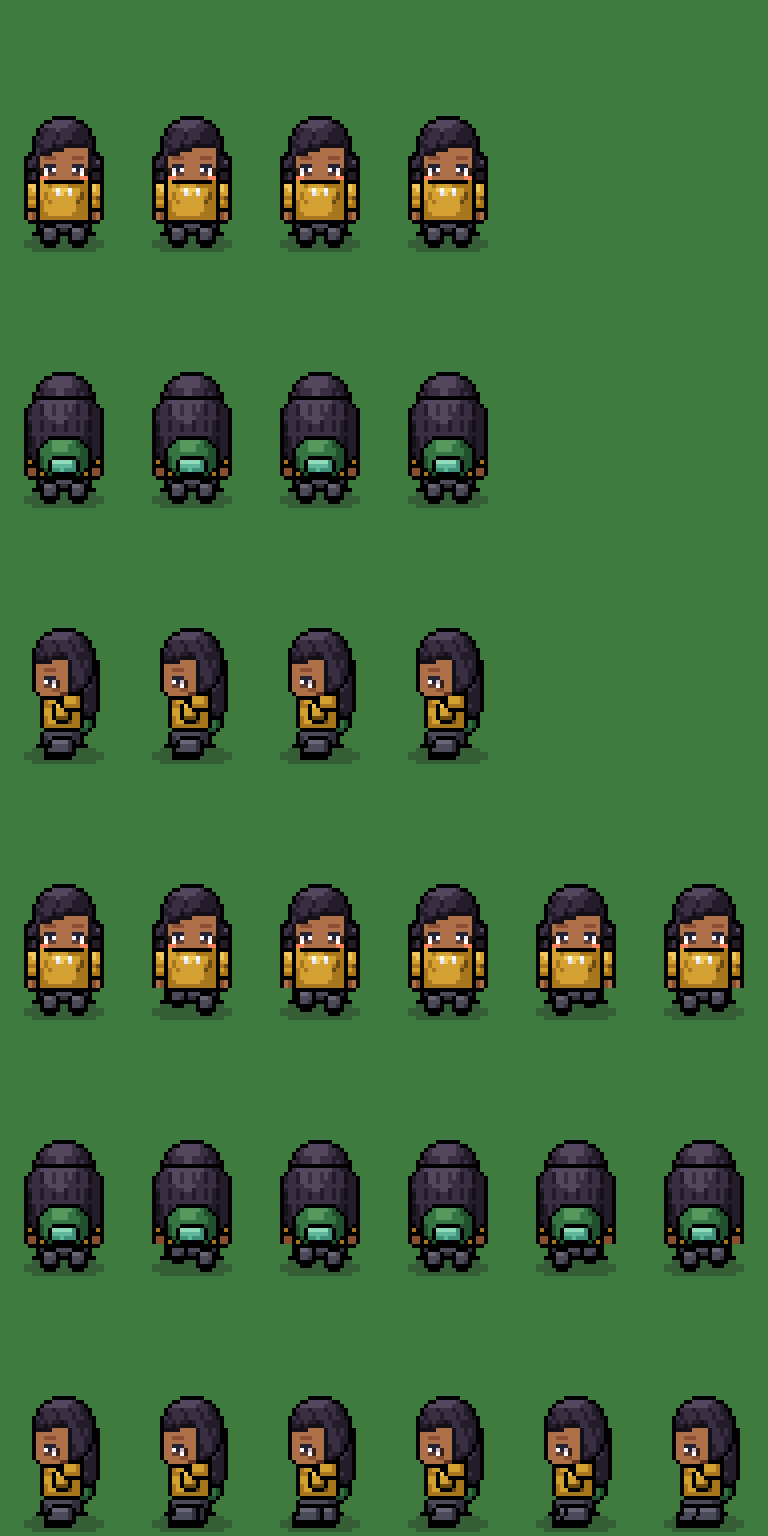
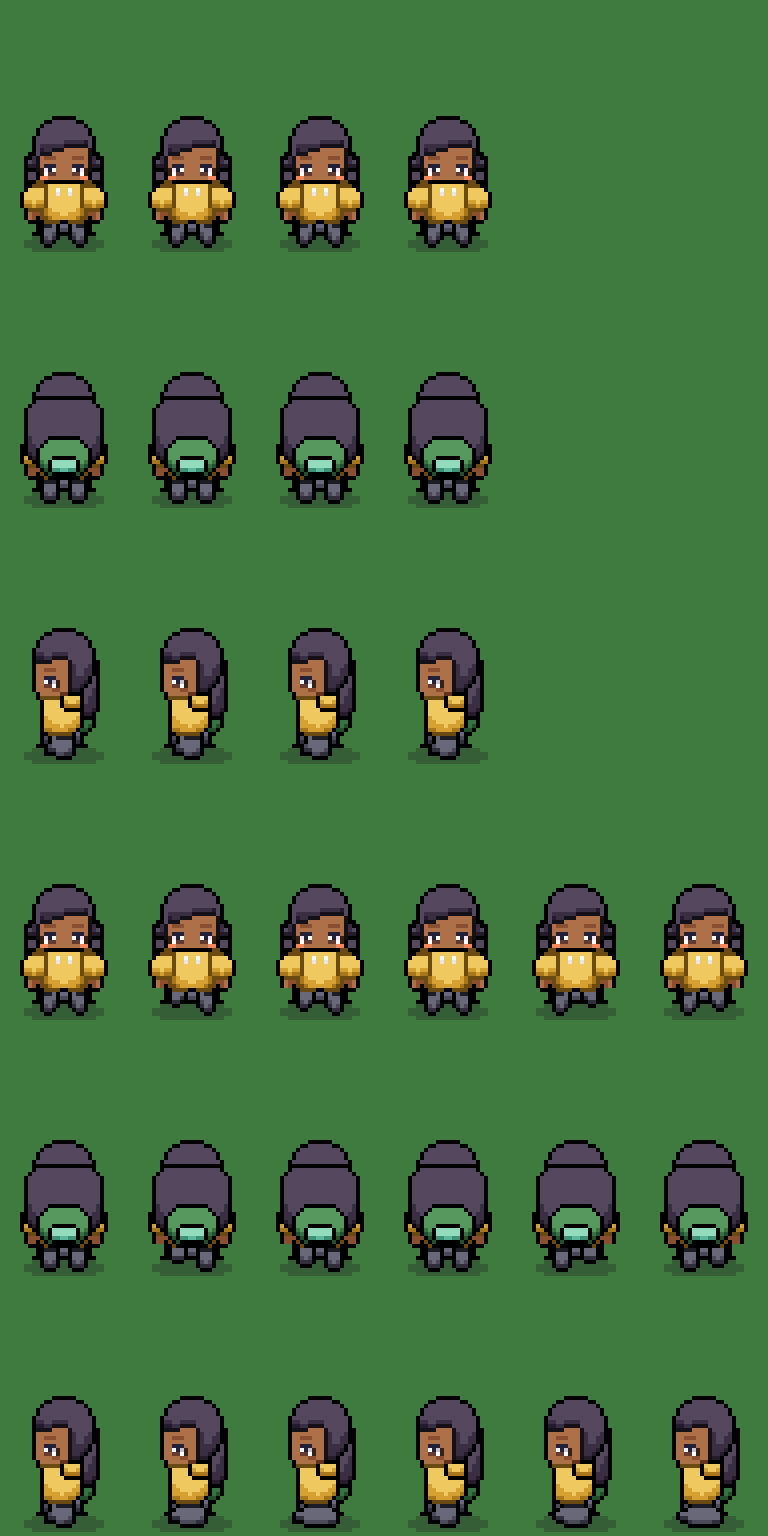
Characters: reference cel shading and body-contour clothing
- shading model measured from the reference body: flat lit shade, curved
  terminator (sides darken first, center last), darkest only in bottom
  corners, legs one shade down; replaces the gradient/highlight model
- clothing cut from the animated body silhouette (rounded contour like the
  body); sleeves are separate outlined shapes like the reference arms
- shoes follow each leg's lowest pixels (work with lifted/striding legs)
- removed hair strands/creases noise; kept head cast shadow + arm separation
- builder swatches show lit/shadow shades

Claude-Session: https://claude.ai/code/session_01AuTfW4RY5hqwpF1mFtvoZZ

diff --git a/scripts/gen-placeholders.ts b/scripts/gen-placeholders.ts
@@ -46,10 +46,16 @@ class Frame {
     return this.p.dir;
   }
   /** A shaded region with the black outline used by all character art. */
-  reg(ch: Ch | Ramp4, inside?: (x: number, y: number) => boolean): Region {
+  reg(ch: Ch | Ramp4, inside?: (x: number, y: number) => boolean, dim = 0): Region {
     const r = new Region(FRAME_W, FRAME_H, typeof ch === "string" ? KEY_RAMPS[ch] : ch);
-    this.ops.push(() => r.paint(this.c, 0, 0, { outlineColor: BLACK, inside, volume: true }));
+    this.ops.push(() => r.paint(this.c, 0, 0, { outlineColor: BLACK, inside, volume: true, dim }));
     return r;
+  }
+  /** Region for clothing: soft edge where it meets the body/head, black on the outer silhouette. */
+  bodyReg(ch: Ch, dim = 0): Region {
+    const m = bodyMask(this.p);
+    const hm = headMask(this.p);
+    return this.reg(ch, (x, y) => x >= 0 && y >= 0 && x < FRAME_W && y < FRAME_H && (m[y * FRAME_W + x] === 1 || hm[y * FRAME_W + x] === 1), dim);
   }
   /** Region for hair/headwear: black outline only on the head silhouette, soft edge where it meets skin. */
   headReg(ch: Ch): Region {
@@ -57,7 +63,7 @@ class Frame {
     return this.reg(ch, (x, y) => x >= 0 && y >= 0 && x < FRAME_W && y < FRAME_H && m[y * FRAME_W + x] === 1);
   }
   /** Shift a painted key-ramp pixel one shade darker (d=-1) or lighter (d=+1). Outline/fixed colors untouched. */
-  shift(x: number, y: number, d: -1 | 1) {
+  shift(x: number, y: number, d: number) {
     this.ops.push(() => {
       const h = hexAt(this.c, x, y);
       if (!h) return;
@@ -72,7 +78,7 @@ class Frame {
     });
   }
   /** Apply `shift` to every pixel of a region matching a predicate (call AFTER the region's shapes are set). */
-  detail(r: Region, d: -1 | 1, when: (x: number, y: number) => boolean) {
+  detail(r: Region, d: number, when: (x: number, y: number) => boolean) {
     for (let y = 0; y < FRAME_H; y++) for (let x = 0; x < FRAME_W; x++) if (r.has(x, y) && when(x, y)) this.shift(x, y, d);
   }
   dot(x: number, y: number, hex: string, alpha = 255) {
@@ -172,6 +178,33 @@ function headMask(p: Pose): Uint8Array {
   return m;
 }
 
+/** Body silhouette (torso, arms, legs — animated) for a pose. */
+const bodyMaskCache = new Map<string, Uint8Array>();
+function bodyMask(p: Pose): Uint8Array {
+  const key = `${p.dir}:${p.m.bodyDy}:${p.m.liftL}:${p.m.liftR}:${p.m.stride}`;
+  let m = bodyMaskCache.get(key);
+  if (!m) {
+    const c = new Canvas(FRAME_W, FRAME_H);
+    animate(BASE[p.dir].body, p, c);
+    m = new Uint8Array(FRAME_W * FRAME_H);
+    for (let i = 0; i < m.length; i++) m[i] = c.data[i * 4 + 3] ? 1 : 0;
+    bodyMaskCache.set(key, m);
+  }
+  return m;
+}
+
+/** Fill a region with (body mask ∩ predicate) — clothing follows the body's real contour. */
+function fromBody(r: Region, p: Pose, keep: (x: number, y: number) => boolean, growPx = 0): Region {
+  const m = bodyMask(p);
+  for (let y = 0; y < FRAME_H; y++)
+    for (let x = 0; x < FRAME_W; x++) {
+      if (!m[y * FRAME_W + x] || !keep(x, y)) continue;
+      for (let oy = -growPx; oy <= growPx; oy++)
+        for (let ox = -growPx; ox <= growPx; ox++) if (Math.abs(ox) + Math.abs(oy) <= growPx && oy >= 0) r.px(x + ox, y + oy);
+    }
+  return r;
+}
+
 /** Fill a region with (head mask ∩ predicate), grown by `grow` px for volume. */
 function fromHead(r: Region, p: Pose, keep: (x: number, y: number) => boolean, growPx = 0): Region {
   const m = headMask(p);
@@ -205,7 +238,6 @@ const drawers: Record<string, Drawer> = {
     if (f.dir === "down") r.round(h.x, h.y + 8, h.w, 16, 2);
     else if (f.dir === "up") r.round(h.x, h.y + 6, h.w, 18, 3);
     else r.round(h.x + 8, h.y + 6, 9, 17, 2);
-    f.detail(r, -1, (x, y) => r.has(x - 1, y) && r.has(x + 1, y) && (x - h.x) % 3 === 1 && y % 4 !== 0);
   },
   "hair/hair_bun_01.png": (f) => {
     const h = f.p.head;
@@ -350,88 +382,88 @@ function hairCap(f: Frame, sideLen: number) {
     fromHead(r, p, (x, y) => y <= h.y + 7 || (x >= h.x + 9 && y <= h.y + 6 + Math.max(6, sideLen)));
     r.rect(h.x + 1, h.y + 8, 4, 1); // fringe tip
   }
-  hairDetail(f, r);
 }
 
-function sleeve(f: Frame, arm: R, len: number) {
-  const h = Math.min(len, arm.h - 2);
-  const r = f.reg("primary");
-  rr(r, { x: arm.x, y: arm.y, w: arm.w, h }, 1);
-  if (h >= 6) f.detail(r, -1, (x, y) => y === arm.y + 4 && r.has(x - 1, y) && r.has(x + 1, y)); // elbow crease
-}
+// Clothing is cut from the animated body silhouette, so it has the same rounded contour as the body.
+// Rows/cols below are measured from the reference (front/back: torso cols 11–20, arms outside;
+// shoulders row 45, hands rows 52–54, legs 55–61; side: torso rows 46–56, legs 57–61).
 
-/** Folds on a torso region: shadow under the head, armpit creases, hem. */
-function torsoDetail(f: Frame, body: Region) {
-  const t = f.p.torso;
-  const inner = (x: number, y: number) => body.has(x - 1, y) && body.has(x + 1, y) && body.has(x, y - 1);
-  if (f.dir === "left") {
-    f.detail(body, -1, (x, y) => inner(x, y) && y <= t.y + 2 && x <= t.x + 5); // under the chin
-    f.detail(body, -1, (x, y) => inner(x, y) && y >= t.y + 4 && y <= t.y + 6 && x === t.x + 6);
-    return;
-  }
-  const cx = t.x + t.w / 2;
-  // cast shadow of the head on the chest/back
-  f.detail(body, -1, (x, y) => inner(x, y) && y <= t.y + 2 && Math.abs(x + 0.5 - cx) <= 4);
-  // armpit creases
-  f.detail(body, -1, (x, y) => inner(x, y) && (y === t.y + 4 || y === t.y + 5) && (x === t.x + 2 || x === t.x + t.w - 3));
-  f.detail(body, -1, (x, y) => inner(x, y) && y === t.y + 6 && (x === t.x + 3 || x === t.x + t.w - 4));
-}
+const isFrontBack = (f: Frame) => f.dir !== "left";
+const torsoCol = (x: number) => x >= 11 && x <= 20;
 
-function shirt(f: Frame, sleeveLen: number, collar: boolean) {
-  const { p } = f;
-  if (f.dir === "left") {
-    const body = f.reg("primary");
-    rr(body, { ...p.torso, h: p.torso.h - 1 }, 1);
-    torsoDetail(f, body);
-    sleeve(f, p.arms[1], sleeveLen);
+/** Cast shadow of the head + arm/torso separation, as in the reference. */
+function torsoDetail(f: Frame, r: Region) {
+  const inner = (x: number, y: number) => r.has(x - 1, y) && r.has(x + 1, y) && r.has(x, y - 1) && r.has(x, y + 1);
+  const y0 = 45 + f.p.m.bodyDy;
+  if (f.dir === "up") {
+    f.detail(r, -2, (x, y) => inner(x, y) && y <= y0 + 1 && Math.abs(x + 0.5 - 16) <= 4);
+  } else if (f.dir === "down") {
+    f.detail(r, -1, (x, y) => inner(x, y) && y === y0 && Math.abs(x + 0.5 - 16) <= 5);
   } else {
-    p.arms.forEach((a) => sleeve(f, a, sleeveLen));
-    const body = f.reg("primary");
-    rr(body, { ...p.torso, x: p.torso.x + 1, w: p.torso.w - 2, h: p.torso.h - 1 }, 1);
-    if (f.dir === "down") body.rect(p.torso.x + 6, p.torso.y, 2, 1, false); // neckline
-    torsoDetail(f, body);
+    f.detail(r, -1, (x, y) => inner(x, y) && y <= y0 + 1 && x <= 15);
   }
-  if (collar && f.dir === "down") f.reg("secondary").rect(p.torso.x + 4, p.torso.y, 6, 2);
+  if (isFrontBack(f)) f.detail(r, -1, (x, y) => inner(x, y) && y >= y0 + 2 && (x === 11 || x === 20));
 }
 
-function jacket(f: Frame, widen: number) {
+function shirt(f: Frame, sleeveRows: number, collar: boolean) {
   const { p } = f;
-  const t = p.torso;
-  if (f.dir === "left") {
-    const body = f.reg("primary");
-    rr(body, { x: t.x - widen, y: t.y, w: t.w + widen * 2, h: t.h }, 1);
-    torsoDetail(f, body);
-    sleeve(f, p.arms[1], 99);
-  } else {
-    p.arms.forEach((a) => sleeve(f, a, 99));
-    const body = f.reg("primary");
-    rr(body, { x: t.x + 1 - widen, y: t.y, w: t.w - 2 + widen * 2, h: t.h + widen }, 1);
-    torsoDetail(f, body);
+  const y0 = 45 + p.m.bodyDy;
+  const r = f.bodyReg("primary");
+  if (isFrontBack(f)) fromBody(r, p, (x, y) => y >= y0 && y <= y0 + 8 && (torsoCol(x) || y <= y0 + 1));
+  else fromBody(r, p, (_x, y) => y >= y0 + 1 && y <= y0 + 8 + Math.min(1, sleeveRows - 4));
+  if (f.dir === "down") r.px(15, y0, false).px(16, y0, false); // neckline
+  torsoDetail(f, r);
+  if (isFrontBack(f)) armWear(f, sleeveRows, 0);
+  if (collar && f.dir === "down") f.bodyReg("secondary").rect(13, y0, 6, 1);
+}
+
+function jacket(f: Frame, grow: number) {
+  const { p } = f;
+  const y0 = 45 + p.m.bodyDy;
+  const r = f.bodyReg("primary");
+  if (isFrontBack(f)) fromBody(r, p, (x, y) => y >= y0 && y <= y0 + 9 && (torsoCol(x) || y <= y0 + 1), grow);
+  else fromBody(r, p, (_x, y) => y >= y0 + 1 && y <= y0 + 9, grow);
+  torsoDetail(f, r);
+  if (isFrontBack(f)) armWear(f, 7, grow);
+}
+
+/** Sleeves as their own rounded shapes (outlined against the torso, like the reference arms). */
+function armWear(f: Frame, rows: number, grow: number) {
+  const y0 = 45 + f.p.m.bodyDy;
+  for (const side of [(x: number) => x <= 10, (x: number) => x >= 21]) {
+    const r = f.bodyReg("primary");
+    fromBody(r, f.p, (x, y) => side(x) && y >= y0 + 1 && y < y0 + rows, grow);
   }
 }
 
 function legsWear(f: Frame, len: number) {
   const { p } = f;
-  for (const leg of p.legs) {
-    const r = f.reg("primary");
-    rr(r, { x: leg.x, y: leg.y - 1, w: leg.w, h: Math.min(len, leg.h - 1) });
-    if (len > 4) f.detail(r, -1, (x, y) => y === leg.y + 2 && r.has(x - 1, y) && r.has(x + 1, y) && x % 2 === 0); // knee fold
-  }
-  const hip = f.reg("primary");
-  rr(hip, p.hip, 1);
-  if (f.dir !== "left") f.detail(hip, -1, (x, y) => (x === 15 || x === 16) && y >= p.hip.y + 2); // crotch seam
-  f.detail(hip, -1, (x, y) => y === p.hip.y + 1 && hip.has(x - 1, y) && hip.has(x + 1, y) && x % 3 === 0); // waistband
+  const hipTop = (isFrontBack(f) ? 52 : 53) + p.m.bodyDy;
+  const legTop = isFrontBack(f) ? 55 : 57;
+  const bottom = Math.min(59, legTop + len);
+  const hipCols = (x: number) => (isFrontBack(f) ? x >= 10 && x <= 21 : true);
+  // hips: in light; legs: one shade down (they sit in the body's shadow, like the reference legs)
+  const hip = f.bodyReg("primary");
+  fromBody(hip, p, (x, y) => y >= hipTop && y < legTop && hipCols(x));
+  const legs = f.bodyReg("primary", 1);
+  fromBody(legs, p, (x, y) => y >= legTop - 1 && y <= bottom && hipCols(x));
+  if (isFrontBack(f)) f.detail(hip, -1, (x, y) => (x === 15 || x === 16) && y >= hipTop + 2);
 }
 
 function footwear(f: Frame, shaft: number) {
   const { p } = f;
-  const feet = f.dir === "left" ? [p.feet[0], p.feet[1]] : p.feet;
-  feet.forEach((ft) => {
-    const r = f.reg("primary");
-    r.round(ft.x, ft.y - shaft, ft.w, ft.h + shaft, 1);
-    if (f.dir === "left") r.rect(ft.x - 1, ft.y + 1, 2, ft.h - 1); // toe
-    f.reg("secondary").rect(ft.x + (f.dir === "left" ? -1 : 0), ft.y + ft.h - 2, ft.w + (f.dir === "left" ? 1 : 0), 1);
-  });
+  const m = bodyMask(p);
+  const r = f.bodyReg("primary");
+  // per column: the lowest 4 (+shaft) body pixels are the foot → follows lifted/striding legs
+  for (let x = 0; x < FRAME_W; x++) {
+    let yb = -1;
+    for (let y = FRAME_H - 1; y >= 55; y--) if (m[y * FRAME_W + x]) { yb = y; break; }
+    if (yb < 0) continue;
+    for (let y = yb; y >= yb - 3 - shaft && y >= 55; y--) if (m[y * FRAME_W + x]) r.px(x, y);
+  }
+  if (f.dir === "left") r.rect(p.feet[1].x - 1, 59, 2, 2); // toe
+  const sole = f.bodyReg("secondary");
+  for (let y = 0; y < FRAME_H; y++) for (let x = 0; x < FRAME_W; x++) if (r.has(x, y) && !r.has(x, y + 1)) sole.px(x, y);
 }
 
 function buildSheet(drawer: Drawer): Canvas {

diff --git a/scripts/lib/pixel.ts b/scripts/lib/pixel.ts
@@ -119,6 +119,8 @@ export class Region {
       inside?: (x: number, y: number) => boolean;
       /** Round-volume shading: light from top-front, darker toward the sides and bottom. */
       volume?: boolean;
+      /** Shift the whole shape N shades darker (e.g. legs, which sit in the body's shadow). */
+      dim?: number;
     } = {},
   ): void {
     const run = (x: number, y: number, dx: number, dy: number) => {
@@ -135,16 +137,18 @@ export class Region {
         if (opts.flat) shade = 2;
         else if (edge && outline) shade = 0;
         else if (opts.volume) {
-          // position inside the shape's row/column span → 0..1
-          const l = run(x, y, -1, 0), r = run(x, y, 1, 0), t = run(x, y, 0, -1), b = run(x, y, 0, 1);
-          const u = l / Math.max(1, l + r); // 0 = left edge, 1 = right edge
-          const v = t / Math.max(1, t + b); // 0 = top, 1 = bottom
-          const side = Math.abs(u - 0.42) * 2; // light slightly from the left
-          let light = 1 - side * side * 0.9 - v * 0.55;
-          if (t <= 1 && side < 0.6) light += 0.35; // top highlight band
-          if (b === 1) light -= 0.25; // contact shadow on the bottom row
-          shade = light > 0.78 ? 3 : light > 0.32 ? 2 : light > -0.1 ? 1 : 0;
-          if (shade === 0 && l > 0 && r > 0 && b > 0) shade = 1; // keep darkest shade for edges
+          // Cel shading measured from the reference body (light from top-front):
+          //  - one flat lit shade over most of the shape
+          //  - a curved terminator: mid shade starts high at the sides, low in the center
+          //  - darkest shade only in the bottom corners
+          const l = run(x, y, -1, 0) - 1, r = run(x, y, 1, 0) - 1; // interior px to the outline
+          const t = run(x, y, 0, -1) - 1, b = run(x, y, 0, 1) - 1;
+          const d = Math.min(l, r);
+          const v = (t + 0.5) / (t + b + 1);
+          const T = d <= 0 ? 0.55 : d === 1 ? 0.68 : d <= 3 ? 0.78 : 0.86;
+          shade = v > T ? 2 : 3;
+          if (b <= 0 && d <= 1) shade = 1;
+          shade = Math.max(1, shade - (opts.dim ?? 0));
         } else if (!this.has(x - 2, y) || !this.has(x, y - 2)) shade = 3;
         else if (!this.has(x + 2, y) || !this.has(x, y + 2)) shade = 1;
         // Edges that only touch the silhouette's interior (e.g. hair meeting skin) get the ramp's dark shade,

diff --git a/client/src/ui/CharacterBuilder.tsx b/client/src/ui/CharacterBuilder.tsx
@@ -62,7 +62,7 @@ export function CharacterBuilder() {
           <div className="label">Skin</div>
           <div className="swatches">
             {Object.entries(SKIN_RAMPS).map(([k, ramp]) => (
-              <button key={k} title={k} className={"swatch" + (draft.skin === k ? " on" : "")} style={{ background: ramp[2] }}
+              <button key={k} title={k} className={"swatch" + (draft.skin === k ? " on" : "")} style={{ background: `linear-gradient(${ramp[3]} 60%, ${ramp[2]} 60%)` }}
                 onClick={() => setDraft((d) => ({ ...d, skin: k }))} />
             ))}
           </div>
@@ -92,7 +92,7 @@ export function CharacterBuilder() {
               <div className="label">{ch === "primary" ? "Color" : "Accent"}</div>
               <div className="swatches">
                 {Object.entries(rampLibraryFor(slot)).map(([k, ramp]) => (
-                  <button key={k} title={k} className={"swatch" + (choice?.[ch] === k ? " on" : "")} style={{ background: ramp[2] }}
+                  <button key={k} title={k} className={"swatch" + (choice?.[ch] === k ? " on" : "")} style={{ background: `linear-gradient(${ramp[3]} 60%, ${ramp[2]} 60%)` }}
                     onClick={() => choice && update({ [slot]: { ...choice, [ch]: k } })} />
                 ))}
               </div>

diff --git a/CLAUDE.md b/CLAUDE.md
@@ -39,7 +39,7 @@ Full spec: `docs/spec.md`. Read it before changing anything in `shared/src/spec.
 - Layer draw order per direction: `LAYER_ORDER` in `shared/src/avatar.ts` (facing up, back layers move in front).
 - The base body is split into `body` (torso/limbs) and `head` layers; `head` is drawn above top/outerwear so clothing never covers the chin.
 - The head is an oval (reference silhouette). Hair and headwear are cut from that silhouette (`fromHead`) and must not grow outside it — otherwise the head reads as round. Use `f.headReg()` for them: black outline only on the outer silhouette, the ramp's dark shade where hair meets skin (no black line across the forehead).
-- Shading: character regions use round-volume shading (`volume: true` — lighter center/top, darker sides/bottom) plus detail passes via `f.detail()`: hair strands + sheen, head cast shadow on the torso, armpit/elbow creases, knee folds, seams. Keep new items consistent with this.
+- Shading = the reference's cel shading (`volume: true` in `Region.paint`): one flat lit shade, a curved terminator (mid shade starts ~55% down at the sides, lower toward the center), darkest shade only in bottom corners; legs one shade darker (`dim`). Clothing is cut from the animated body silhouette (`fromBody`), sleeves are separate outlined shapes, edges meeting skin are soft. Details are limited to the head's cast shadow and arm/torso separation — no strands or noise.
 - Compositor bakes each avatar once into a single texture (`client/src/game/avatar/compositor.ts`), cached by appearance.
 
 ## Workflow
